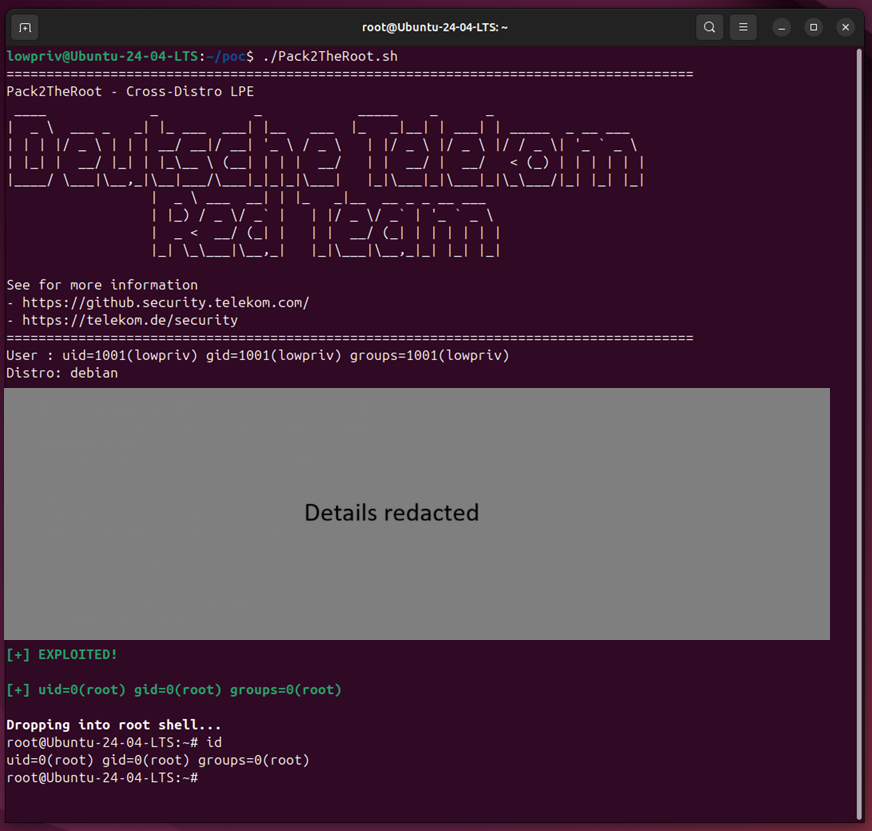
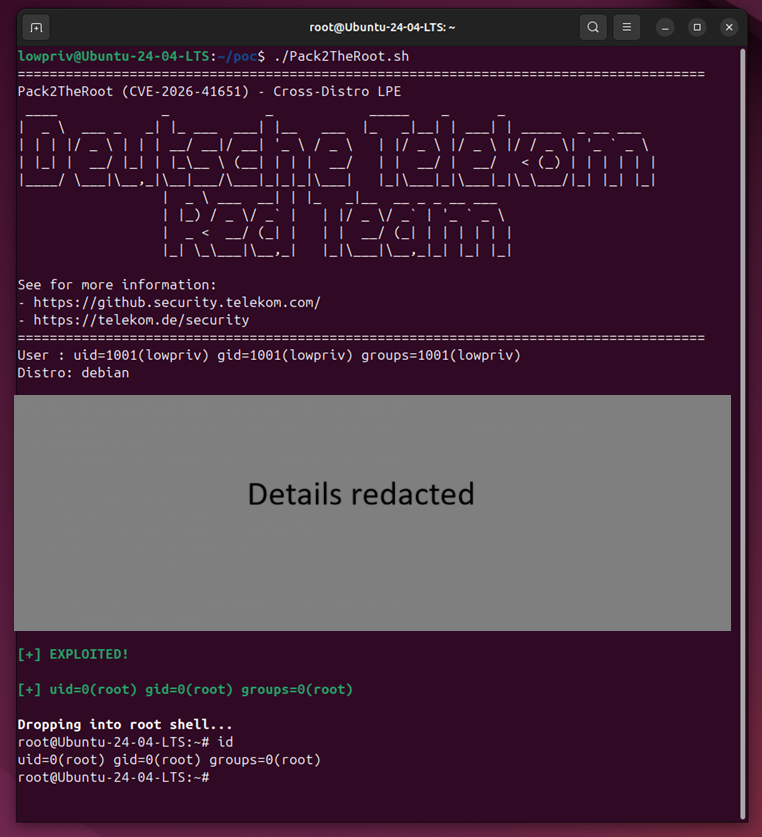
Added fixed packages and minor fixes.

diff --git a/_posts/2026-04-22-pack2theroot-linux-local-privilege-escalation.md b/_posts/2026-04-22-pack2theroot-linux-local-privilege-escalation.md
@@ -11,7 +11,7 @@ vulnerability_release_date: '2026-04-20'
 
 
 
-Today we publicly disclose a high-severity vulnerability (CVSS 3: 8.8) - in coordination with distro maintainers - that affects multiple Linux distributions in their default installations.
+Today we publicly disclose a high-severity vulnerability (CVSS 3.1: 8.8) - in coordination with distro maintainers - that affects multiple Linux distributions in their default installations.
 The Pack2TheRoot vulnerability can be exploited by any local unprivileged user to obtain root access on a vulnerable system. <!--more-->
 
 The vulnerability lies in the [PackageKit daemon](https://github.com/PackageKit/PackageKit), a cross-distro package management abstraction layer.
@@ -55,6 +55,17 @@ Note `grep`'s `-i` flag, as the package may be installed in camel case as `Packa
 
 To check if the PackageKit daemon is available, run `systemctl status packagekit` or `pkmon`.
 If `systemctl` shows it as `loaded` or `running`, or `pkmon` shows transaction output, the daemon is active and your system is potentially exploitable if unpatched.
+
+**Updated Packages**
+
+Despite of the fixed release `1.3.5`, multiple Distributions released patched packages.
+In the following, we link the Distros package overviews, that show Distro specific patched versions.
+
+- Debian: [https://security-tracker.debian.org/tracker/CVE-2026-41651](https://security-tracker.debian.org/tracker/CVE-2026-41651)
+- Ubuntu: [https://bugs.launchpad.net/bugs/cve/2026-41651](https://bugs.launchpad.net/bugs/cve/2026-41651)
+- Fedora 42 - 44: Fixed in PackageKit-1.3.4-3 [https://koji.fedoraproject.org/koji/packageinfo?packageID=5206](https://koji.fedoraproject.org/koji/packageinfo?packageID=5206)
+
+
 
 ### Indicators of compromise (IOC) {#indicators-of-compromise}
 
@@ -103,6 +114,7 @@ If you have questions regarding the vulnerability or are interested in our [secu
 - [CVE-2026-41651](https://www.cve.org/CVERecord?id=CVE-2026-41651)
 
 *The images in this article are free to use, as long as a reference to this blog post is provided.*
+A [SVG version](/assets/images/Pack2TheRoot/Pack2TheRoot.svg) of the Pack2TheRoot Logo is also available.
 
 <style>
 .content {
